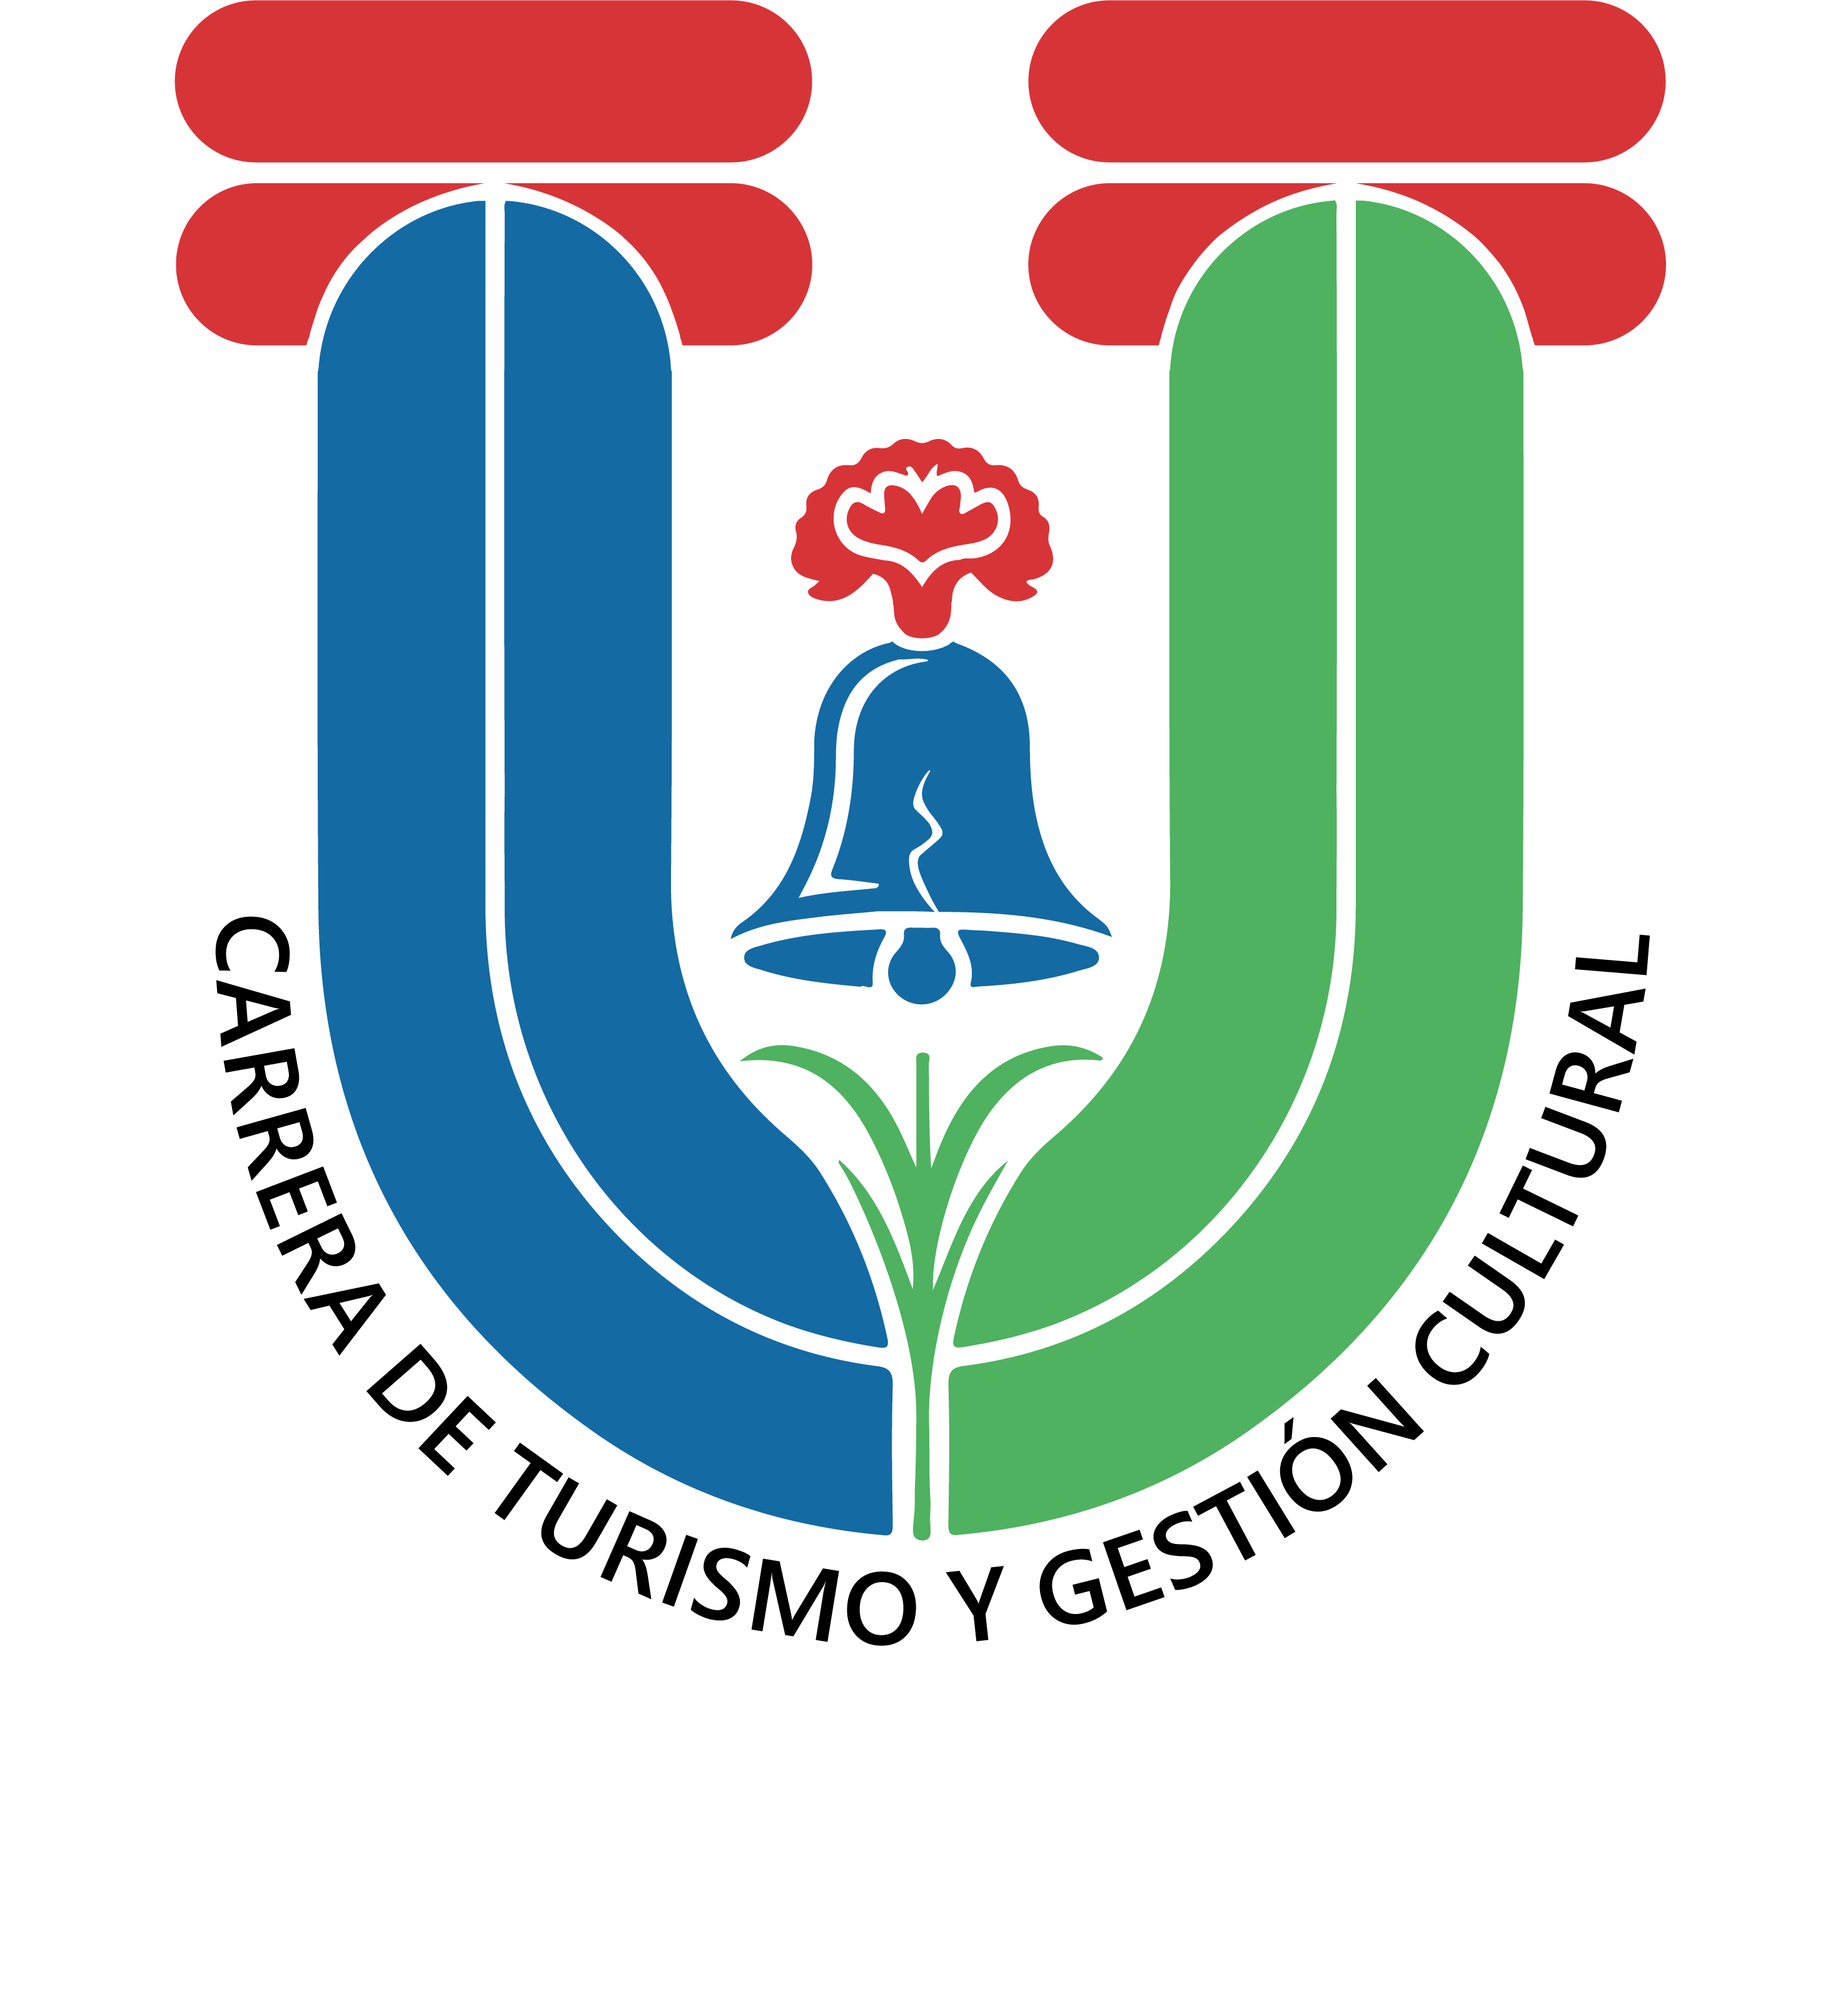
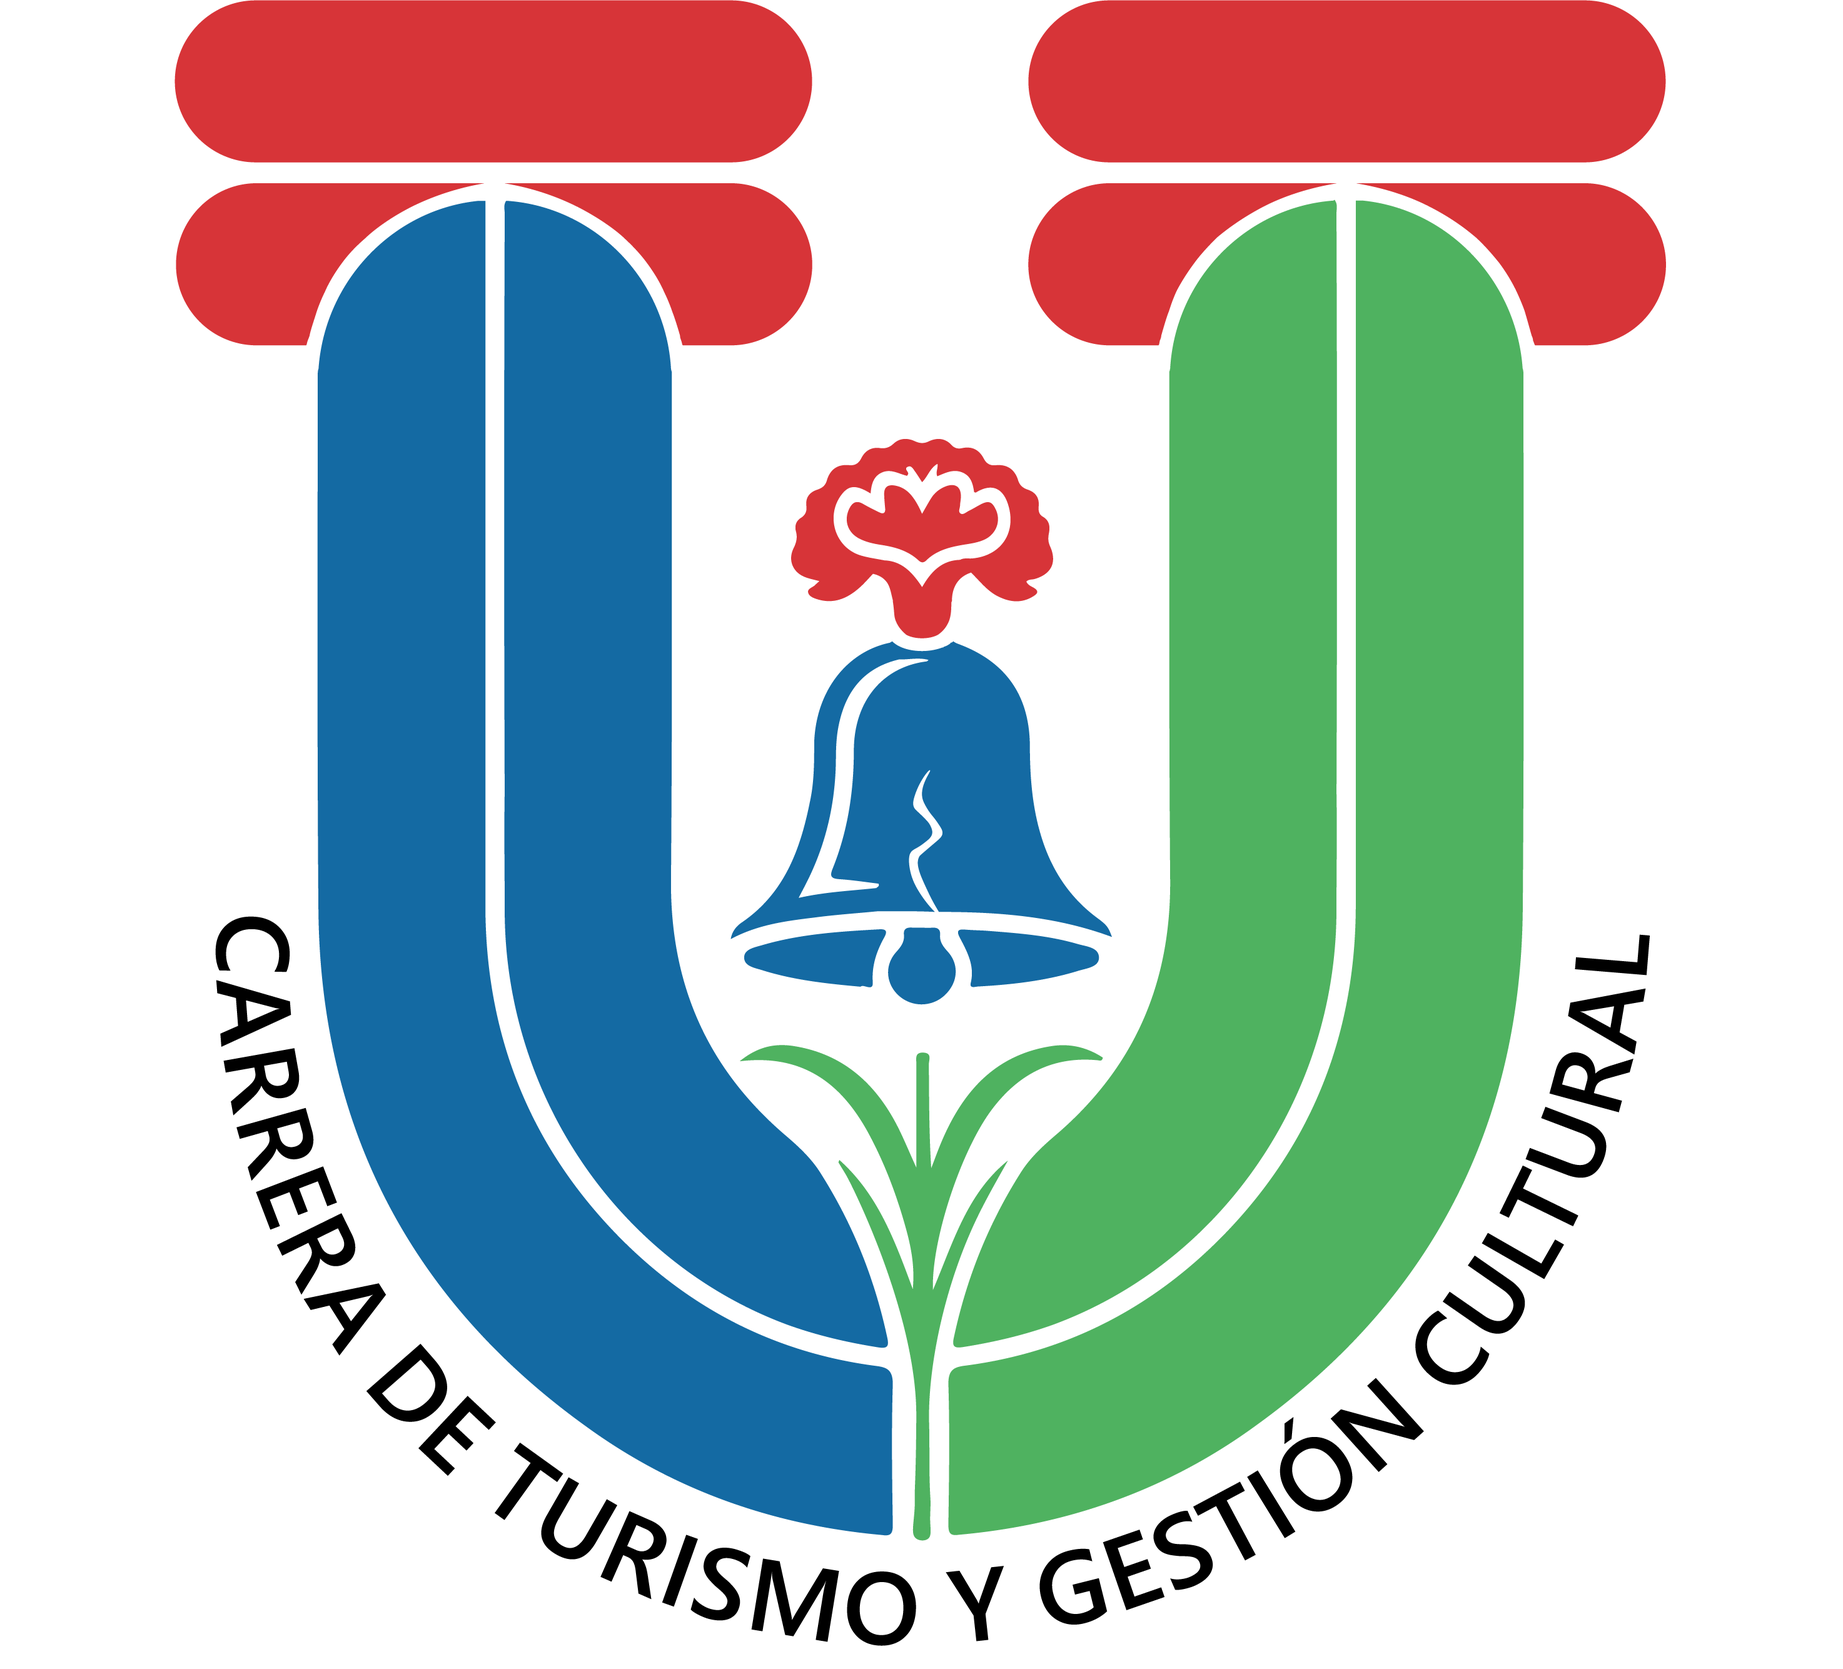
Actualización

diff --git a/src/index.css b/src/index.css
@@ -1112,29 +1112,31 @@ body.light-theme .route-directions-list::before {
 }
 
 .welcome-screen__escudo-wrap {
-  display: flex;
-  align-items: center;
-  justify-content: center;
-  width: min(150px, 42vw);
-  aspect-ratio: 1;
-  padding: 4px;
-  border-radius: 18px;
-  background: rgba(255, 255, 255, 0.96);
-  border: 3px solid rgba(255, 255, 255, 0.85);
-  box-shadow:
-    0 12px 40px rgba(0, 0, 0, 0.28),
-    0 0 0 6px rgba(255, 255, 255, 0.08);
-  margin: 0 auto;
-  flex-shrink: 0;
+    display: flex;
+    align-items: center;
+    justify-content: center;
+    width: 180px;
+    aspect-ratio: 1;
+    padding: 0;
+    border-radius: 20px;
+    background: rgba(255, 255, 255, 0.96);
+    border: 3px solid rgba(255, 255, 255, 0.85);
+    box-shadow:
+        0 12px 40px rgba(0, 0, 0, 0.28),
+        0 0 0 6px rgba(255, 255, 255, 0.08);
+    margin: 0 auto;
+    flex-shrink: 0;
 }
 
+
 .welcome-screen__escudo {
-  width: 100%;
-  height: 100%;
-  object-fit: cover;
-  object-position: center;
-  display: block;
-  border-radius: 14px;
+    width: 100%;
+    height: 100%;
+    object-fit: contain;
+    object-position: center;
+    display: block;
+    border-radius: 14px;
+    transform: translateY(5px);
 }
 
 .welcome-screen__text {
@@ -1235,14 +1237,14 @@ body.light-theme .route-directions-list::before {
   }
 
   .welcome-screen__card {
-    padding: 48px 40px 40px;
+    padding: 48px 40px 30px;
     gap: 32px;
   }
 
   .welcome-screen__escudo-wrap {
     width: 180px;
-    padding: 6px;
-    border-radius: 22px;
+    padding: 0px;
+    border-radius: 20px;
   }
 
   .welcome-screen__text {

diff --git a/src/components/WelcomeScreen.jsx b/src/components/WelcomeScreen.jsx
@@ -20,6 +20,7 @@ export default function WelcomeScreen({ onStart }) {
               src={escudoTurismo}
               alt="Escudo de la Carrera de Turismo USFX"
               className="welcome-screen__escudo"
+              
             />
           </div>
 
